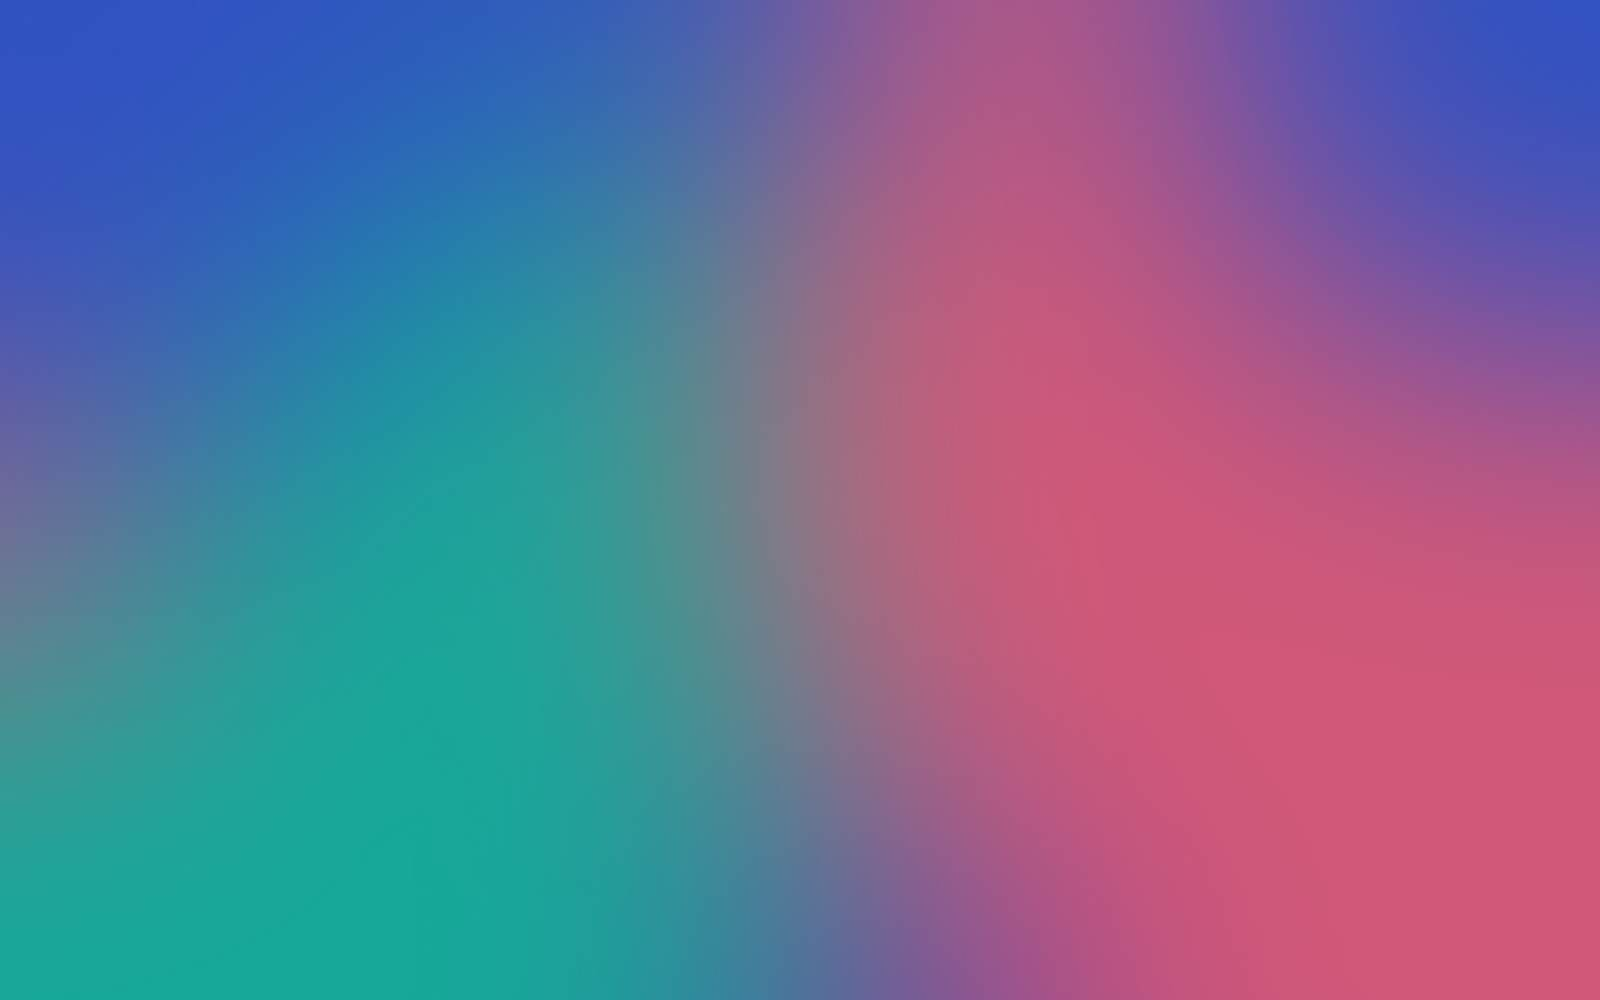
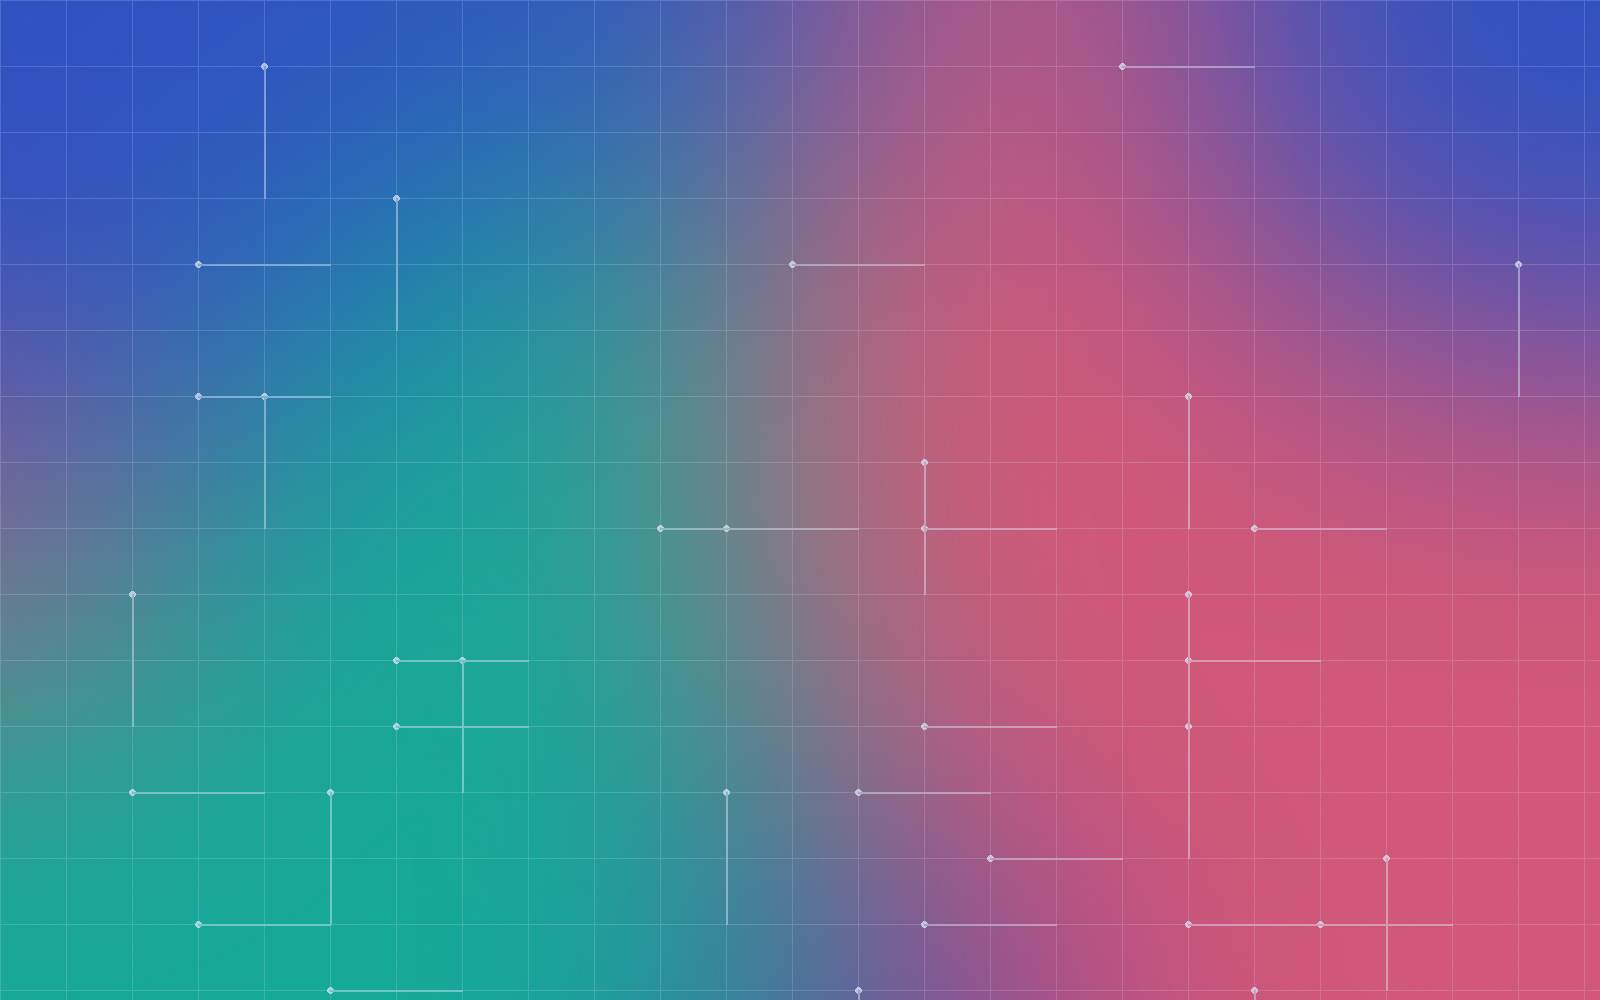
Custom themes were silently ignored, and the blur sample proved nothing
Named themes put the tokens behind :root[data-theme="x"], which outranks the
plain :root a deck's own css: uses - so pitch, showcase and cookbook lost their
palette entirely and rendered with the built-in tokens while keeping the custom
stylesheet's element rules. That is what the site was showing: dark cards and
dark code blocks on a white slide in light mode, and text lost against the
background in dark mode. The built-in selectors are wrapped in :where() now, so
they contribute no specificity and an author's :root always wins, whatever
order the stylesheets land in. A test asserts the wrapper is there, because
this fails silently: nothing errors, the deck just quietly reverts.

The background used to demonstrate blur= was itself out of focus, so the sample
showed nothing happening. mesh.jpg now carries a crisp technical grid over the
same colour wash, and mountains.jpg a sharp treeline - detail fine enough to
visibly lose. The cookbook's bare-versus-blurred comparison finally reads as a
comparison.

Verified by rendering: the pitch deck keeps its own palette in both modes, the
four built-in themes still switch correctly, and the cookbook slide now shows
the grid dissolving.

Claude-Session: https://claude.ai/code/session_01RKC3w4RRqbNgKUK4r331sb

Changed region(s): [[0.8438, 0.899, 0.875, 0.93], [0.2812, 0.713, 0.3125, 0.744], [0.2812, 0.651, 0.3125, 0.682]]

diff --git a/crates/mirzam-cli/tests/snapshots/cookbook.html b/crates/mirzam-cli/tests/snapshots/cookbook.html
@@ -113,10 +113,10 @@ axis labels crowd.</p>
 <div class="pane pane-head" data-pane="head" style="grid-area:head"><p><span class="eyebrow">Rule 6</span></p>
 <h2>Over a photo, buy contrast before you spend it</h2>
 </div>
-<div class="pane pane-bad has-bg" data-pane="bad" style="grid-area:bad;text-align:center;display:flex;flex-direction:column;justify-content:center"><img class="mz-bg" src="<data-uri len=18387>" alt="" style="object-fit:cover;object-position:center;"><div class="mz-bg-content"><h3>Bare photo</h3>
+<div class="pane pane-bad has-bg" data-pane="bad" style="grid-area:bad;text-align:center;display:flex;flex-direction:column;justify-content:center"><img class="mz-bg" src="<data-uri len=71075>" alt="" style="object-fit:cover;object-position:center;"><div class="mz-bg-content"><h3>Bare photo</h3>
 <p>Every word competes with the picture behind it.</p>
 </div></div>
-<div class="pane pane-good has-bg bg-text-light" data-pane="good" style="grid-area:good;text-align:center;display:flex;flex-direction:column;justify-content:center"><img class="mz-bg" src="<data-uri len=18387>" alt="" style="object-fit:cover;object-position:center;filter:blur(3px);transform:scale(1.050);"><div class="mz-scrim" style="background:rgba(0,0,0,0.5)"></div><div class="mz-bg-content"><h3><code>dim=0.5 blur=3</code></h3>
+<div class="pane pane-good has-bg bg-text-light" data-pane="good" style="grid-area:good;text-align:center;display:flex;flex-direction:column;justify-content:center"><img class="mz-bg" src="<data-uri len=71075>" alt="" style="object-fit:cover;object-position:center;filter:blur(3px);transform:scale(1.050);"><div class="mz-scrim" style="background:rgba(0,0,0,0.5)"></div><div class="mz-bg-content"><h3><code>dim=0.5 blur=3</code></h3>
 <p>The photo becomes texture, and the words come forward.</p>
 </div></div>
 </div>

diff --git a/crates/mirzam-cli/tests/snapshots/showcase.html b/crates/mirzam-cli/tests/snapshots/showcase.html
@@ -159,7 +159,7 @@
 <li>Text flips to light automatically</li>
 </ul>
 </div>
-<div class="pane pane-hero has-bg bg-text-light" data-pane="hero" style="grid-area:hero;display:flex;flex-direction:column;justify-content:flex-end"><img class="mz-bg" src="<data-uri len=29139>" alt="" style="object-fit:cover;object-position:center;filter:blur(2px);transform:scale(1.033);"><div class="mz-scrim" style="background:rgba(0,0,0,0.3)"></div><div class="mz-scrim" style="background:linear-gradient(to top, rgba(0,0,0,0.3) 0%, rgba(0,0,0,0.11) 45%, rgba(0,0,0,0) 100%)"></div><div class="mz-bg-content"><h3>Ship the story, not the slide</h3>
+<div class="pane pane-hero has-bg bg-text-light" data-pane="hero" style="grid-area:hero;display:flex;flex-direction:column;justify-content:flex-end"><img class="mz-bg" src="<data-uri len=37895>" alt="" style="object-fit:cover;object-position:center;filter:blur(2px);transform:scale(1.033);"><div class="mz-scrim" style="background:rgba(0,0,0,0.3)"></div><div class="mz-scrim" style="background:linear-gradient(to top, rgba(0,0,0,0.3) 0%, rgba(0,0,0,0.11) 45%, rgba(0,0,0,0) 100%)"></div><div class="mz-bg-content"><h3>Ship the story, not the slide</h3>
 <p>The photo is inlined with everything else, so the deck is still one file.</p>
 </div></div>
 </div>

diff --git a/crates/mirzam-render/src/theme/themes/solarized.css b/crates/mirzam-render/src/theme/themes/solarized.css
@@ -1,4 +1,4 @@
-:root[data-theme="solarized"] {
+:where(:root[data-theme="solarized"]) {
   --mz-bg: #002b36;
   --mz-slide-bg: #fdf6e3;
   --mz-fg: #586e75;
@@ -17,7 +17,7 @@
   --mz-danger-border: #dc322f;
 }
 @media (prefers-color-scheme: dark) {
-  :root[data-theme="solarized"]:not([data-mode="light"]) {
+  :where(:root[data-theme="solarized"]:not([data-mode="light"])) {
     --mz-bg: #002b36;
     --mz-slide-bg: #073642;
     --mz-fg: #93a1a1;
@@ -36,7 +36,7 @@
     --mz-danger-border: #dc322f;
   }
 }
-:root[data-theme="solarized"][data-mode="dark"] {
+:where(:root[data-theme="solarized"][data-mode="dark"]) {
   --mz-bg: #002b36;
   --mz-slide-bg: #073642;
   --mz-fg: #93a1a1;

diff --git a/crates/mirzam-render/src/theme/themes/default.css b/crates/mirzam-render/src/theme/themes/default.css
@@ -1,4 +1,4 @@
-:root[data-theme="default"] {
+:where(:root[data-theme="default"]) {
   --mz-bg: #14161d;
   --mz-slide-bg: #ffffff;
   --mz-fg: #23272f;
@@ -17,7 +17,7 @@
   --mz-danger-border: #e5484d;
 }
 @media (prefers-color-scheme: dark) {
-  :root[data-theme="default"]:not([data-mode="light"]) {
+  :where(:root[data-theme="default"]:not([data-mode="light"])) {
     --mz-bg: #14161d;
     --mz-slide-bg: #1b1e27;
     --mz-fg: #eef0f6;
@@ -36,7 +36,7 @@
     --mz-danger-border: #e5484d;
   }
 }
-:root[data-theme="default"][data-mode="dark"] {
+:where(:root[data-theme="default"][data-mode="dark"]) {
   --mz-bg: #14161d;
   --mz-slide-bg: #1b1e27;
   --mz-fg: #eef0f6;

diff --git a/crates/mirzam-render/src/theme/themes/vscode.css b/crates/mirzam-render/src/theme/themes/vscode.css
@@ -1,4 +1,4 @@
-:root[data-theme="vscode"] {
+:where(:root[data-theme="vscode"]) {
   --mz-bg: #1e1e1e;
   --mz-slide-bg: #ffffff;
   --mz-fg: #000000;
@@ -17,7 +17,7 @@
   --mz-danger-border: #cd3131;
 }
 @media (prefers-color-scheme: dark) {
-  :root[data-theme="vscode"]:not([data-mode="light"]) {
+  :where(:root[data-theme="vscode"]:not([data-mode="light"])) {
     --mz-bg: #1e1e1e;
     --mz-slide-bg: #1e1e1e;
     --mz-fg: #d4d4d4;
@@ -36,7 +36,7 @@
     --mz-danger-border: #cd3131;
   }
 }
-:root[data-theme="vscode"][data-mode="dark"] {
+:where(:root[data-theme="vscode"][data-mode="dark"]) {
   --mz-bg: #1e1e1e;
   --mz-slide-bg: #1e1e1e;
   --mz-fg: #d4d4d4;

diff --git a/crates/mirzam-render/src/theme/themes/nord.css b/crates/mirzam-render/src/theme/themes/nord.css
@@ -1,4 +1,4 @@
-:root[data-theme="nord"] {
+:where(:root[data-theme="nord"]) {
   --mz-bg: #2e3440;
   --mz-slide-bg: #eceff4;
   --mz-fg: #2e3440;
@@ -17,7 +17,7 @@
   --mz-danger-border: #bf616a;
 }
 @media (prefers-color-scheme: dark) {
-  :root[data-theme="nord"]:not([data-mode="light"]) {
+  :where(:root[data-theme="nord"]:not([data-mode="light"])) {
     --mz-bg: #2e3440;
     --mz-slide-bg: #3b4252;
     --mz-fg: #eceff4;
@@ -36,7 +36,7 @@
     --mz-danger-border: #bf616a;
   }
 }
-:root[data-theme="nord"][data-mode="dark"] {
+:where(:root[data-theme="nord"][data-mode="dark"]) {
   --mz-bg: #2e3440;
   --mz-slide-bg: #3b4252;
   --mz-fg: #eceff4;

diff --git a/scripts/make-sample-backgrounds.py b/scripts/make-sample-backgrounds.py
@@ -126,14 +126,33 @@ def mountains():
             pts.append((x, y))
         pts.append((W, H))
         ImageDraw.Draw(layer).polygon(pts, fill=color + (255,))
-        if i == 0:
-            layer = layer.filter(ImageFilter.GaussianBlur(2))
         img = Image.alpha_composite(img.convert("RGBA"), layer).convert("RGB")
+
+    # A stand of conifers on the near ridge. The sample decks use this photo to
+    # demonstrate `blur=`, so it needs detail fine enough to visibly lose: a
+    # softly drawn background cannot show what blurring does to one.
+    trees = Image.new("RGBA", (W, H), (0, 0, 0, 0))
+    td = ImageDraw.Draw(trees)
+    for _ in range(90):
+        x = rng.uniform(-0.02, 1.02) * W
+        h = rng.uniform(0.05, 0.13) * H
+        base_y = rng.uniform(0.88, 0.99) * H
+        w = h * rng.uniform(0.22, 0.34)
+        td.polygon(
+            [(x, base_y - h), (x - w, base_y), (x + w, base_y)],
+            fill=(18, 24, 44, 255),
+        )
+    img = Image.alpha_composite(img.convert("RGBA"), trees).convert("RGB")
     return grain(img)
 
 
 def mesh():
-    """Soft colour mesh: a texture to sit behind a chart or a quote."""
+    """A colour wash under a crisp technical grid.
+
+    The cookbook uses this one to show `blur=` buying contrast, so the detail
+    on top has to be sharp: blurring something already soft demonstrates
+    nothing. The wash gives the colour, the grid gives the detail to lose.
+    """
     rng = random.Random(3)
     img = Image.new("RGB", (W, H), (16, 22, 40))
     blobs = Image.new("RGB", (W, H), (16, 22, 40))
@@ -146,6 +165,28 @@ def mesh():
         bd.ellipse([x - r, y - r, x + r, y + r], fill=c)
     blobs = blobs.filter(ImageFilter.GaussianBlur(150))
     img = Image.blend(img, blobs, 0.92)
+
+    grid = Image.new("RGBA", (W, H), (0, 0, 0, 0))
+    gd = ImageDraw.Draw(grid)
+    step = W // 24
+    for x in range(0, W + step, step):
+        gd.line([(x, 0), (x, H)], fill=(226, 236, 255, 46), width=1)
+    for y in range(0, H + step, step):
+        gd.line([(0, y), (W, y)], fill=(226, 236, 255, 46), width=1)
+    # Nodes on a scattered subset of the intersections, and short runs joining
+    # them - fine enough that a 3px blur erases them completely.
+    nodes = []
+    for x in range(step, W, step):
+        for y in range(step, H, step):
+            if rng.random() < 0.10:
+                nodes.append((x, y))
+                gd.ellipse([x - 3, y - 3, x + 3, y + 3], fill=(226, 236, 255, 190))
+    for x, y in nodes:
+        if rng.random() < 0.5:
+            gd.line([(x, y), (x + step * 2, y)], fill=(226, 236, 255, 120), width=2)
+        else:
+            gd.line([(x, y), (x, y + step * 2)], fill=(226, 236, 255, 120), width=2)
+    img = Image.alpha_composite(img.convert("RGBA"), grid).convert("RGB")
     return grain(img, 4)
 
 

diff --git a/crates/mirzam-render/src/theme/mod.rs b/crates/mirzam-render/src/theme/mod.rs
@@ -2,7 +2,11 @@
 //! files in this directory, and selects a named theme's tokens.
 //!
 //! - `themes/*.css` — one file per built-in theme, each defining the full
-//!   token set for both light and dark mode ([C3] in `docs/workstreams.md`)
+//!   token set for both light and dark mode ([C3] in `docs/workstreams.md`).
+//!   Every selector is wrapped in `:where()`, which contributes no
+//!   specificity: a deck's own `css:` overrides tokens with a plain `:root`
+//!   block, and `:root[data-theme="x"]` would otherwise outrank it no matter
+//!   what order the stylesheets appear in.
 //! - `base.css` — layout, typography, panes; everything that reads a token
 //!   rather than defining one, shared by every theme
 //! - `print.css` — overrides applied for PDF export
@@ -134,9 +138,28 @@ mod tests {
         let css = theme_css("default");
         assert!(css
             .trim_start()
-            .starts_with(":root[data-theme=\"default\"]"));
+            .starts_with(":where(:root[data-theme=\"default\"])"));
         assert!(css.contains("--mz-accent1"));
         assert!(css.contains("* { box-sizing: border-box; }"));
+    }
+
+    /// A deck's own `css:` overrides tokens with a plain `:root { }` block.
+    /// `:root[data-theme="x"]` outranks that on specificity, so wrapping the
+    /// built-in selectors in the zero-specificity `:where()` is the only thing
+    /// keeping custom themes working - a bare selector here silently reverts
+    /// every deck that ships its own palette back to the built-in one.
+    #[test]
+    fn built_in_theme_tokens_carry_no_specificity() {
+        for (name, css) in THEMES {
+            for line in css.lines().filter(|l| l.contains("data-theme=")) {
+                assert!(
+                    line.trim_start().starts_with(":where("),
+                    "{name}: `{}` must be wrapped in :where(), or a deck's own \
+                     css: can no longer override the palette",
+                    line.trim()
+                );
+            }
+        }
     }
 
     #[test]
@@ -269,15 +292,15 @@ mod contrast_tests {
     }
 
     fn light_selector(name: &str) -> String {
-        format!(":root[data-theme=\"{name}\"] {{")
+        format!(":where(:root[data-theme=\"{name}\"]) {{")
     }
 
     fn dark_selector(name: &str) -> String {
-        format!(":root[data-theme=\"{name}\"][data-mode=\"dark\"] {{")
+        format!(":where(:root[data-theme=\"{name}\"][data-mode=\"dark\"]) {{")
     }
 
     fn auto_dark_selector(name: &str) -> String {
-        format!(":root[data-theme=\"{name}\"]:not([data-mode=\"light\"]) {{")
+        format!(":where(:root[data-theme=\"{name}\"]:not([data-mode=\"light\"])) {{")
     }
 
     const ALL_TOKENS: &[&str] = &[

diff --git a/CHANGELOG.md b/CHANGELOG.md
@@ -78,6 +78,16 @@ markup**. See [docs/development.md](docs/development.md#versioning) for the poli
 - Upgraded comrak to 0.54 and enabled CJK-friendly emphasis.
 
 ### Fixed
+- A deck's own `css:` stopped overriding the palette: named themes moved the
+  tokens behind `:root[data-theme="…"]`, which outranks the plain `:root` a
+  custom stylesheet uses, so every deck with a custom theme silently reverted
+  to the built-in one — dark styling on a light background in light mode, and
+  text lost against the background in dark mode. Built-in theme selectors are
+  wrapped in `:where()` now, so they carry no specificity and an author's
+  `:root` always wins.
+- The sample background used to demonstrate `blur=` was already out of focus,
+  so blurring it showed nothing. It carries a crisp grid now, and the mountain
+  photo a sharp treeline.
 - The documentation site linked its guides as `docs/*.html`, which the static
   Pages deployment never produced — no Jekyll runs on an uploaded artifact, so
   every one of those links 404'd. The prose is now linked to GitHub, and
